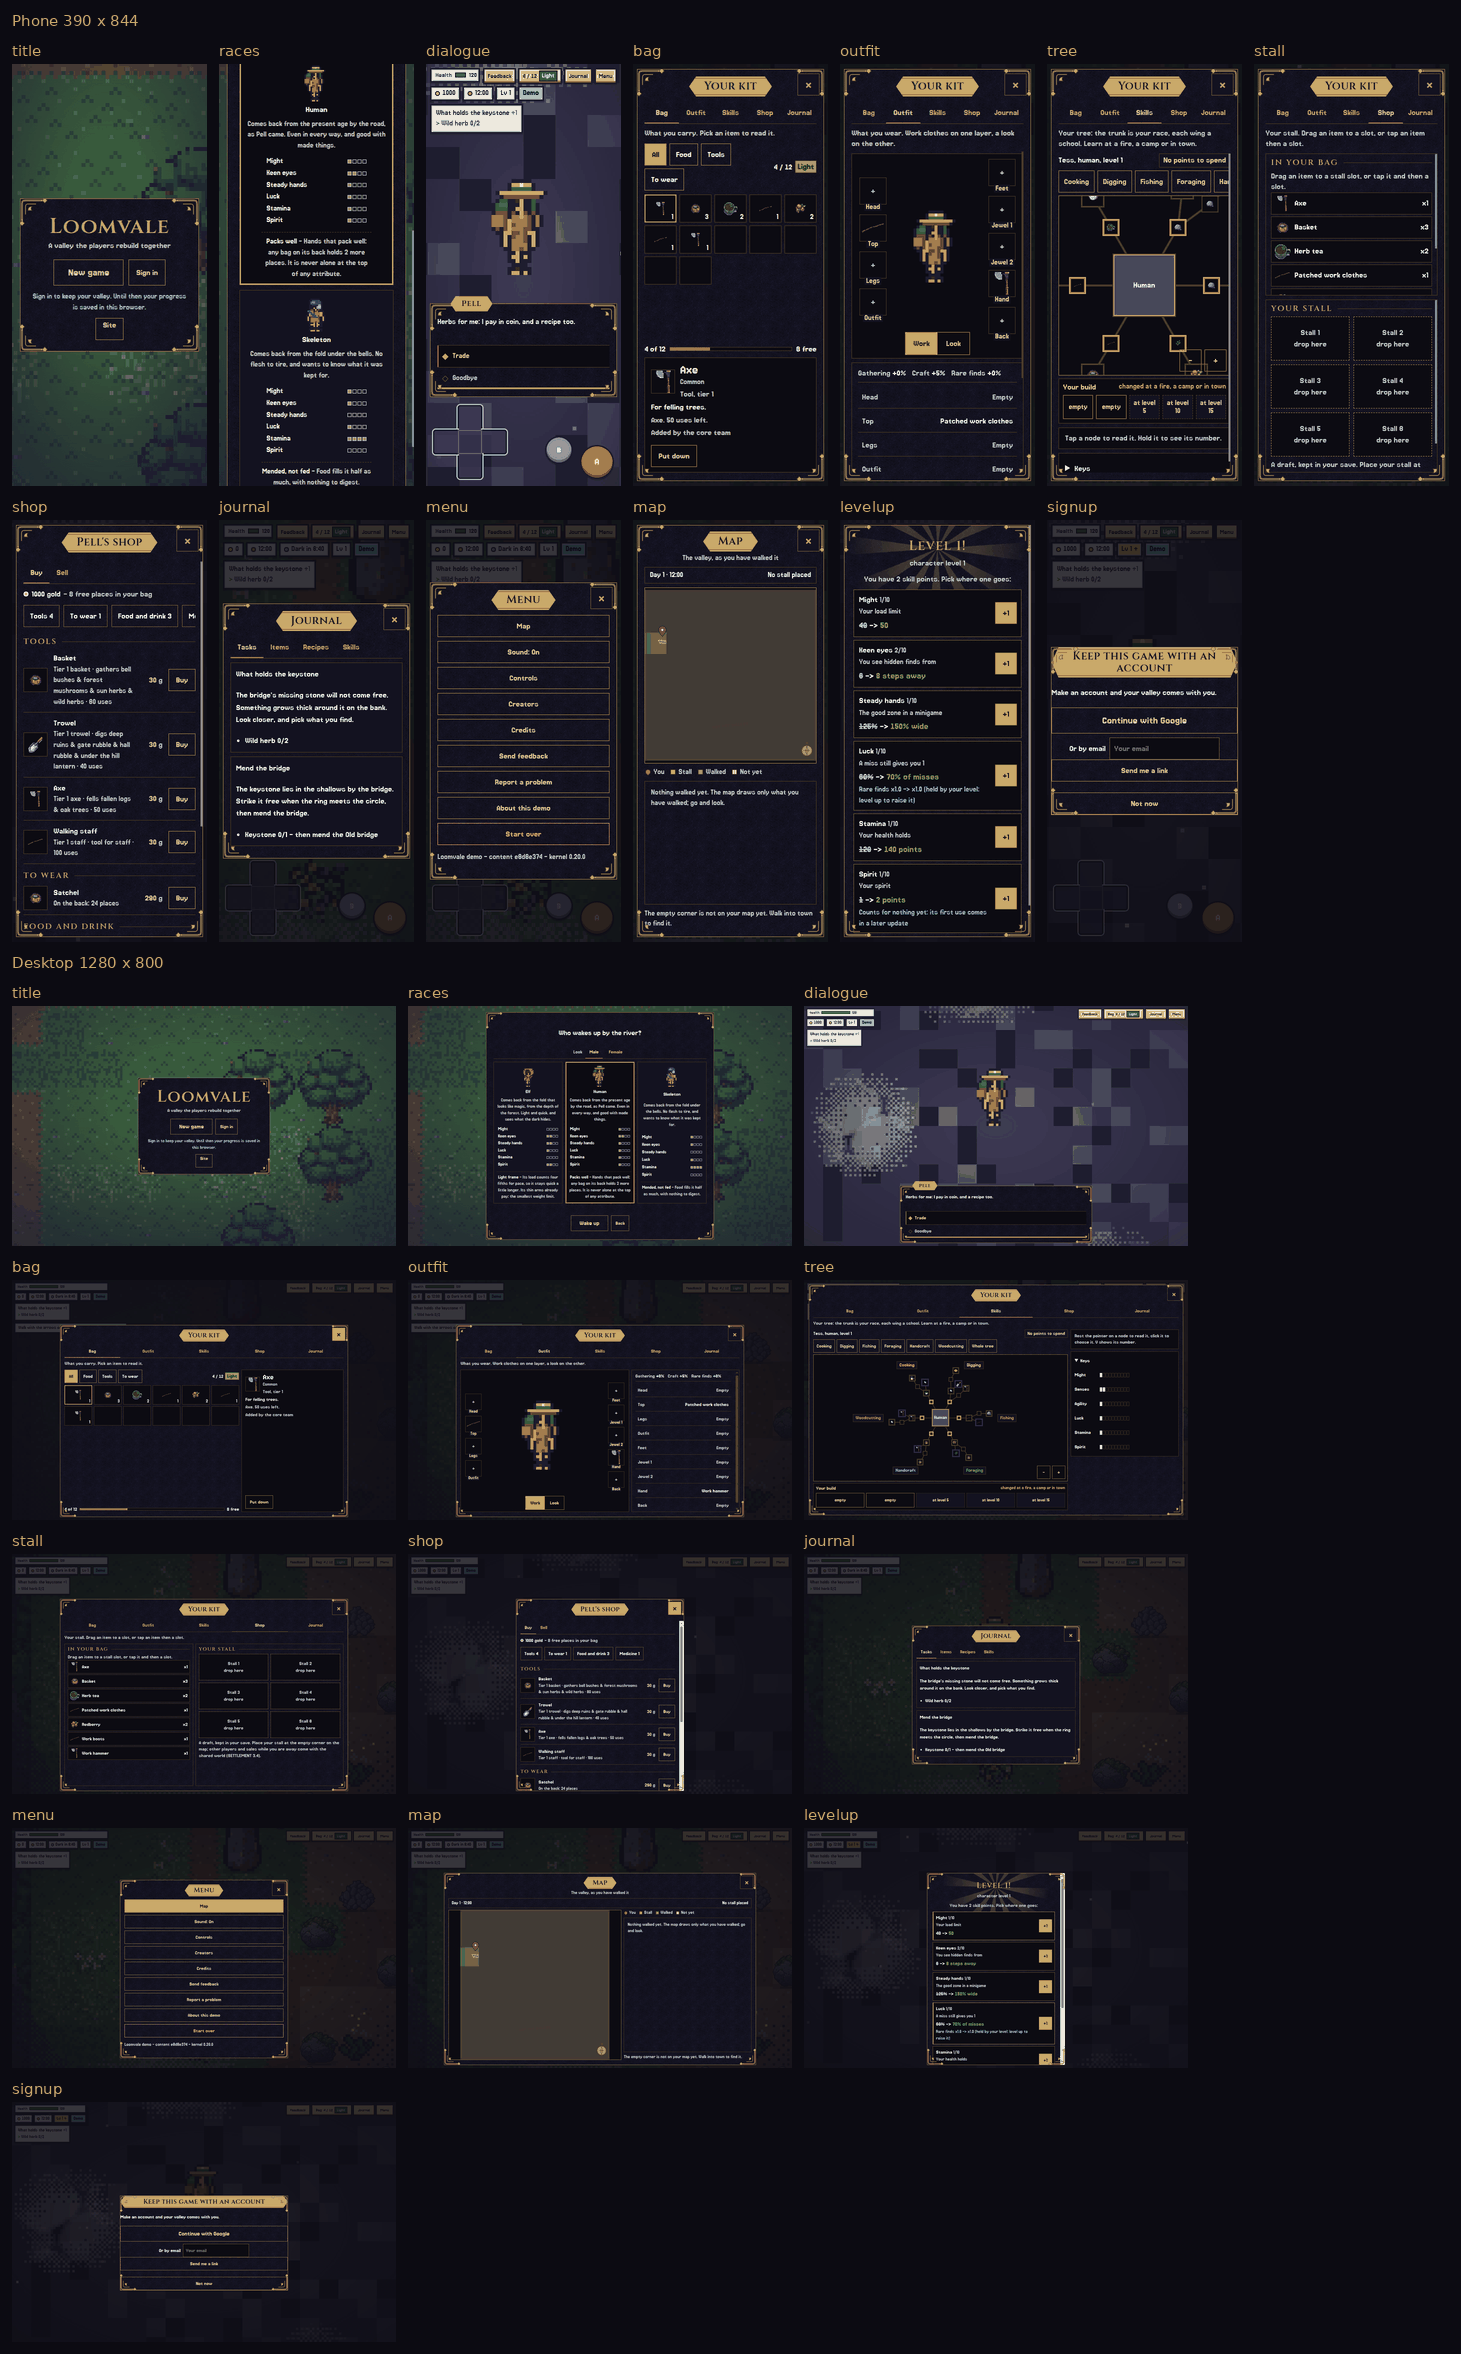
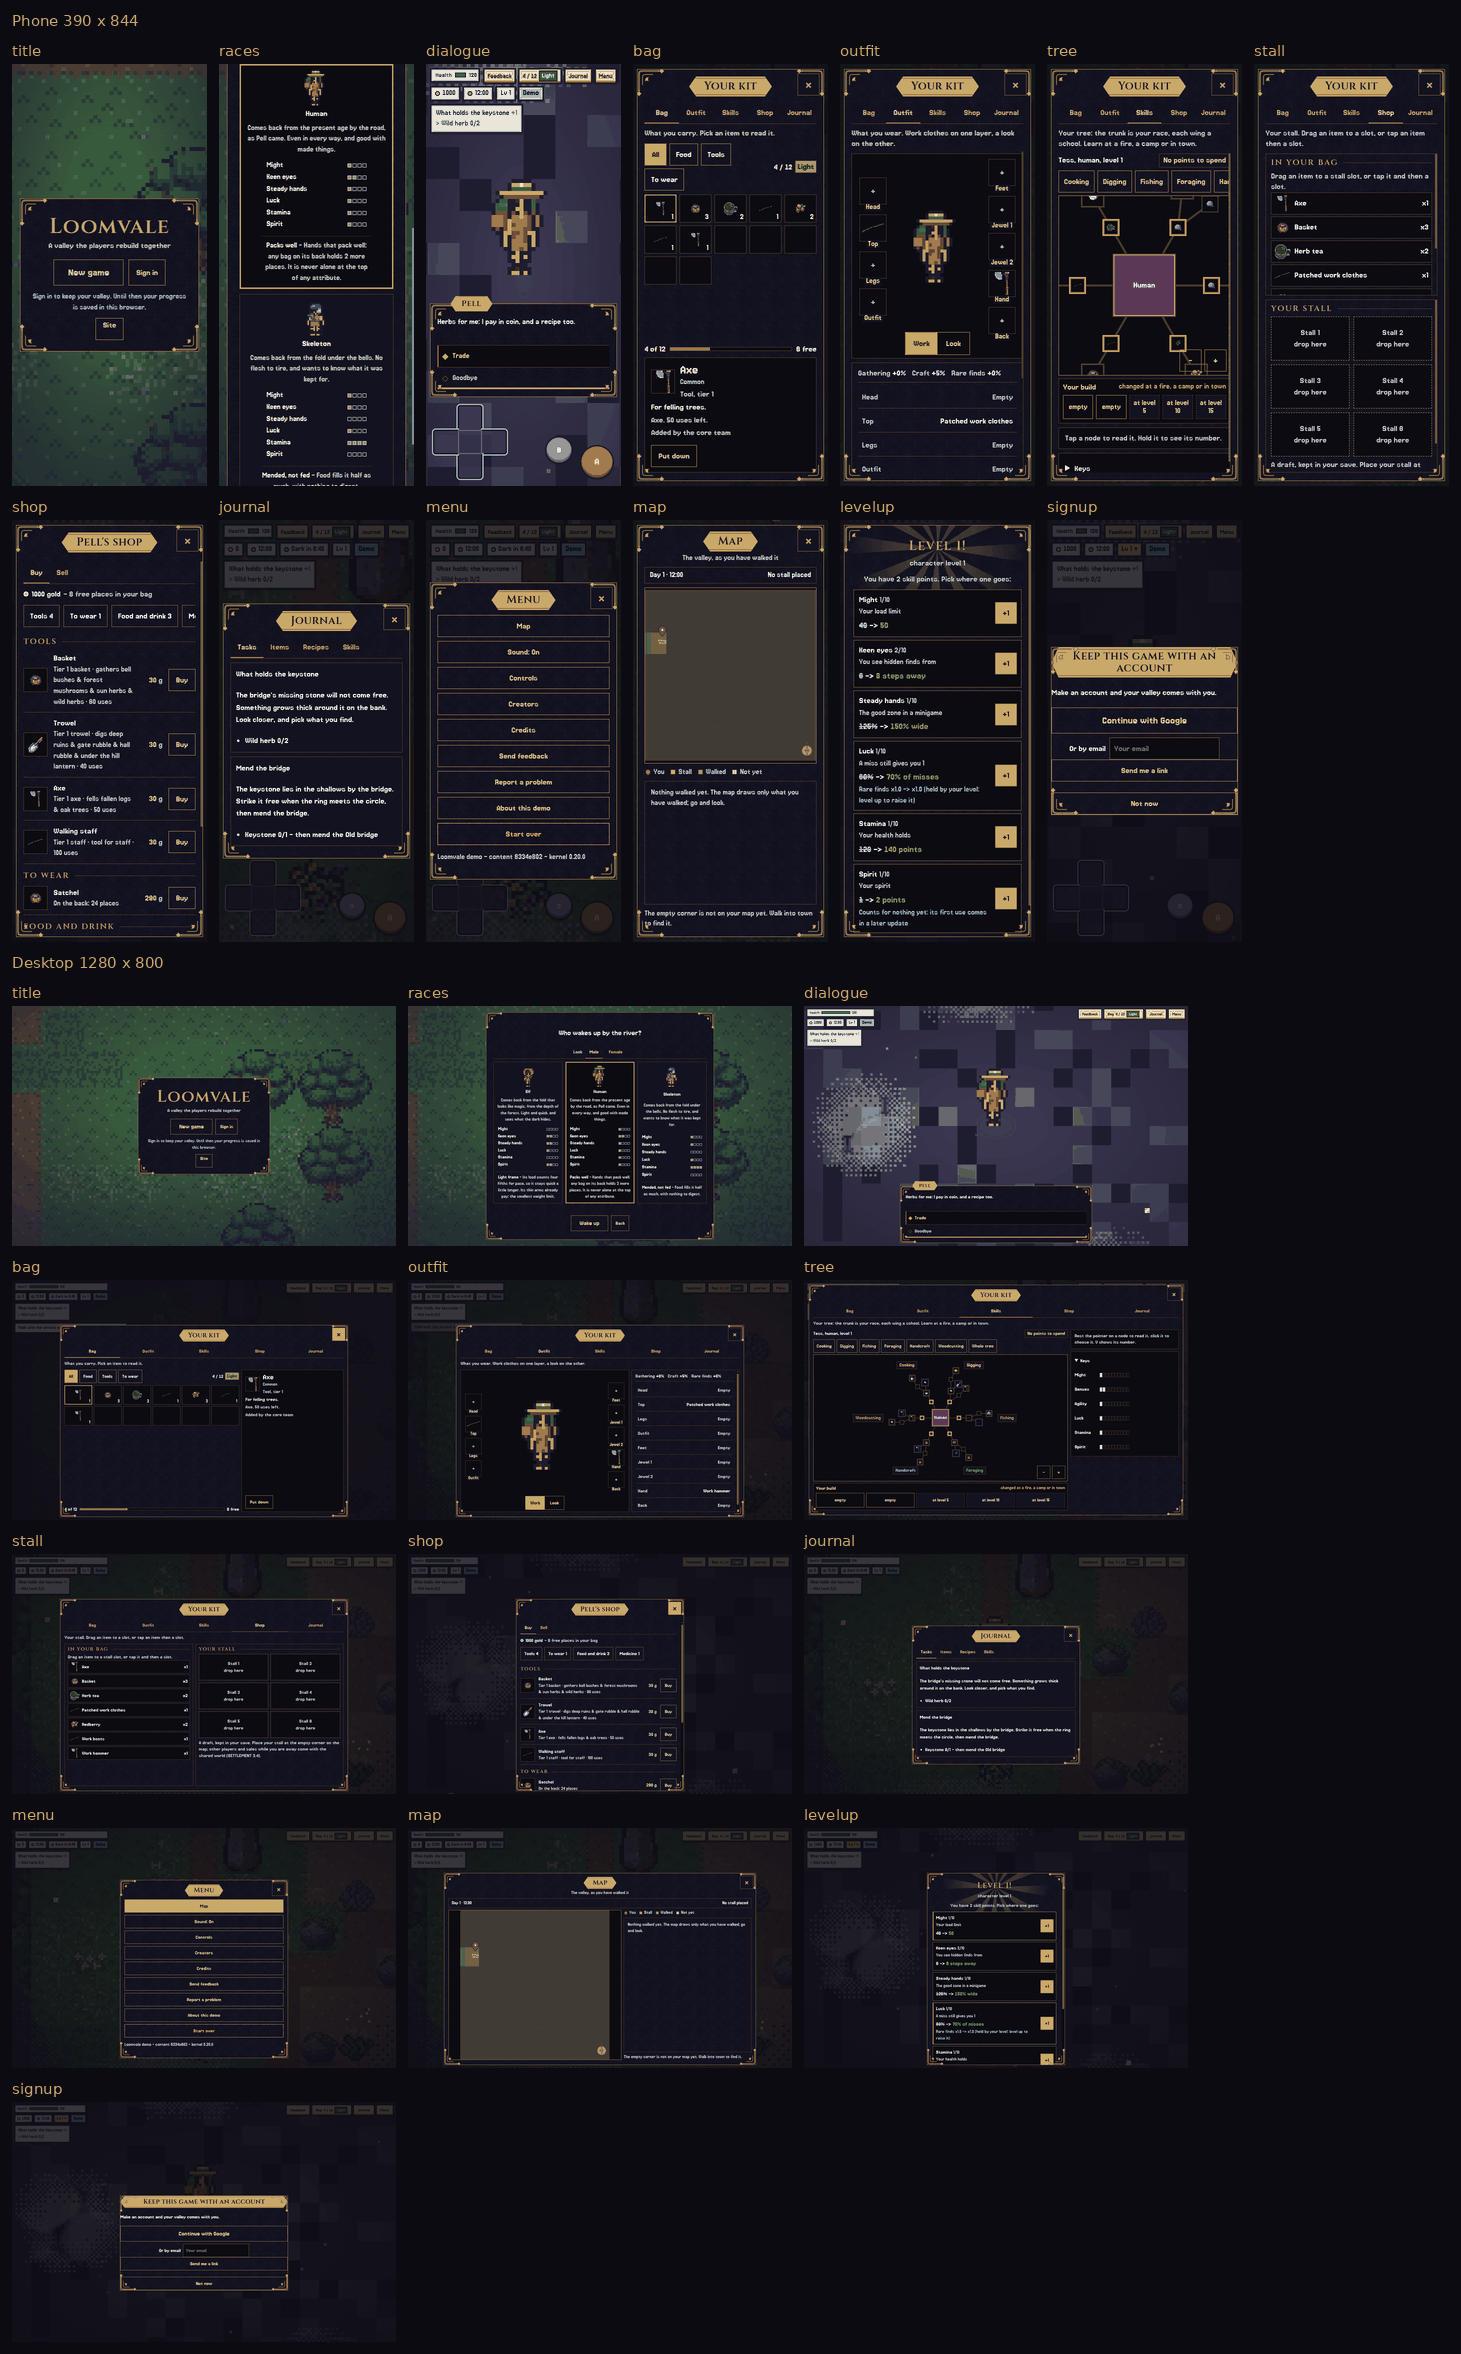
fix(ui): a scroll inside a window is a gold thumb in the well
The level-up's body scrolls on a desktop and showed the browser's light
bar along the window's edge: 15% of its frame was off the four roles.

diff --git a/game/src/ui/theme.css b/game/src/ui/theme.css
@@ -179,6 +179,13 @@
     var(--ui-corner-br) right bottom no-repeat;
 }
 
+/* A scroll inside a window is a gold thumb in the well, never the browser's light bar. */
+.ui-window,
+.ui-window * {
+  scrollbar-width: thin;
+  scrollbar-color: var(--ui-gold-3) var(--ui-well);
+}
+
 /* The plaque: the window's name in Cinzel on a gold bar notched at both ends, two engraved lines inside it. */
 .ui-plaque {
   position: relative;
